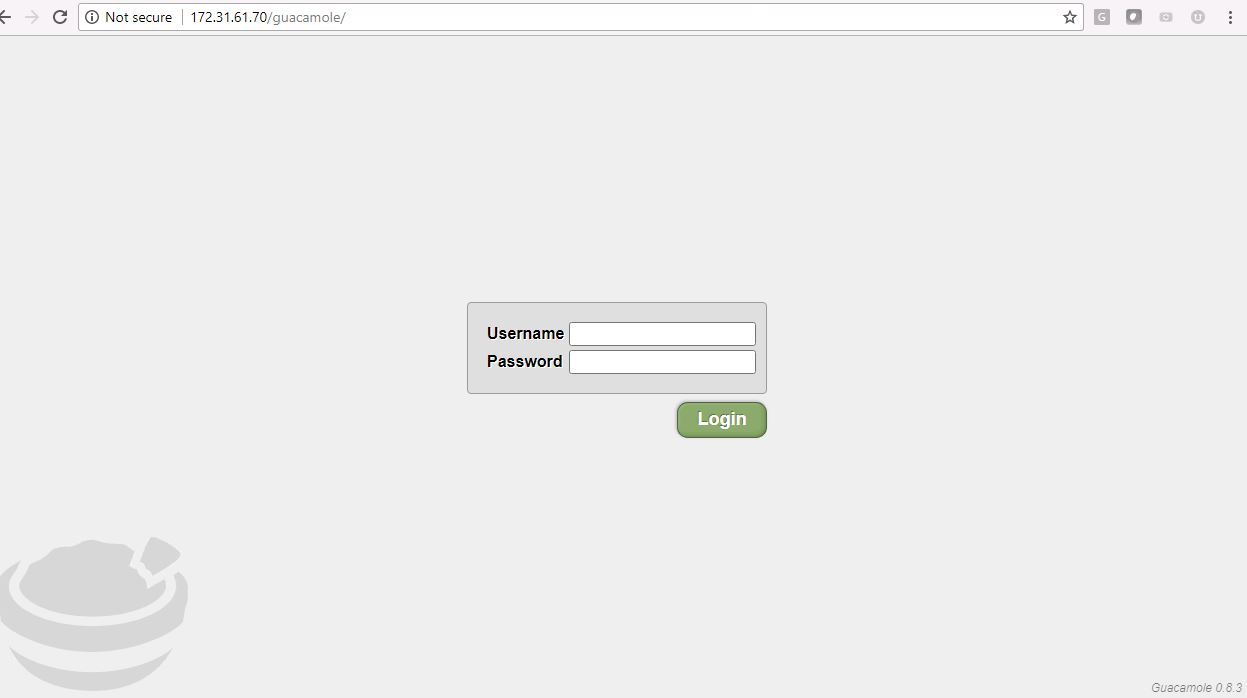
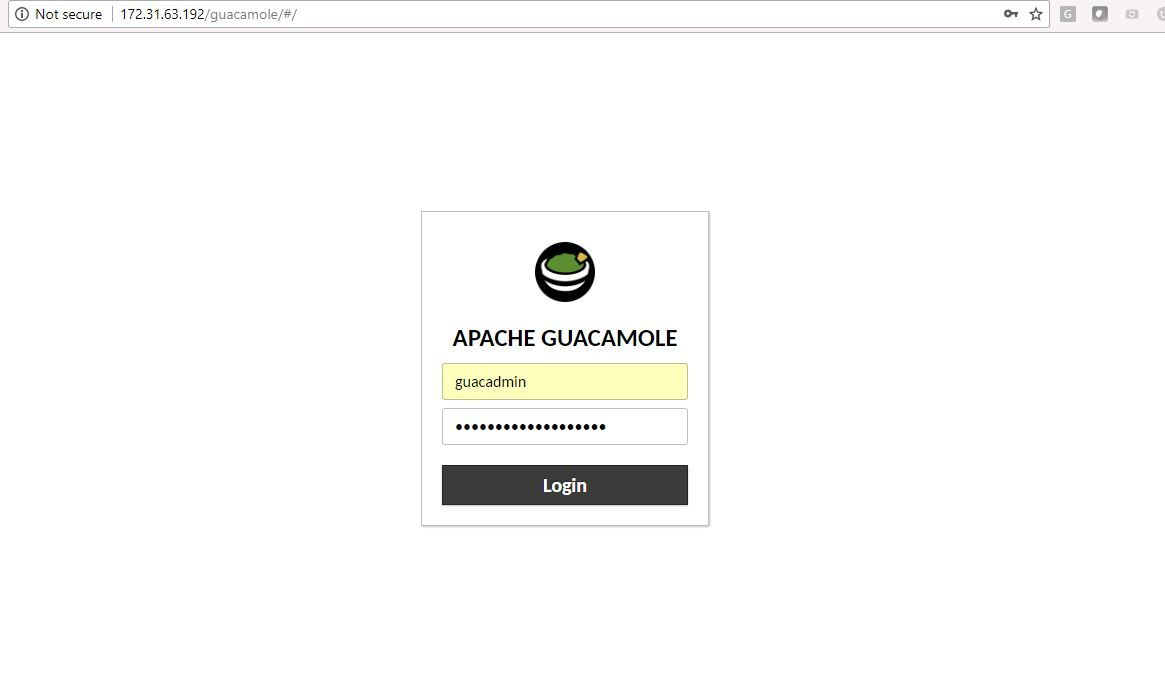
updated all

diff --git a/README.md b/README.md
@@ -30,16 +30,24 @@ aws cloudformation deploy --stack-name GuacamoleSvr01 --parameter-overrides \
 ```
 
 ## Access
-Please wait for about 15 minutes for the installation to finish. Then go to http://private-Ip/guacamole and login with the provided userName and password.
+Please wait for about 15 minutes for the installation to finish. Then go to http://private-Ip/guacamole and login with the provided GuacadminUser and GuacadminPassword.
 
 ### Login Screen
-Login with the provided userName and password:
+Login with the provided GuacadminUser and GuacadminPassword:
 ![Login Screen](https://raw.githubusercontent.com/changli3/guacamole-aws-cloudformation/master/login.JPG "Login Screen")
 
 ### Dashboard Screen
 Once login, click on one of the predefined connection resources:
 ![Dashboard Screen](https://raw.githubusercontent.com/changli3/guacamole-aws-cloudformation/master/dashbd.JPG "Dashboard Screen")
 
+### Settings
+From dropdown of the user name, select Settings, and then Connections tab:
+![Settings Screen](https://raw.githubusercontent.com/changli3/guacamole-aws-cloudformation/master/settings.JPG "Settings Screen")
+
+### Add a RDP Connection
+Click "New Connection", and then enter name, select RDP protocal and enter newwork IP address (or name):
+![New Screen](https://raw.githubusercontent.com/changli3/guacamole-aws-cloudformation/master/rdpconfig.JPG "New Screen")
+
 ### RDP Screen
-You can see the RDP screen comes up:
+Save the connection, from dropdown of the user name, select "Home" and then click the newly created RDP connection:
 ![RDP Screen](https://raw.githubusercontent.com/changli3/guacamole-aws-cloudformation/master/rdp.JPG "RDP Screen")
